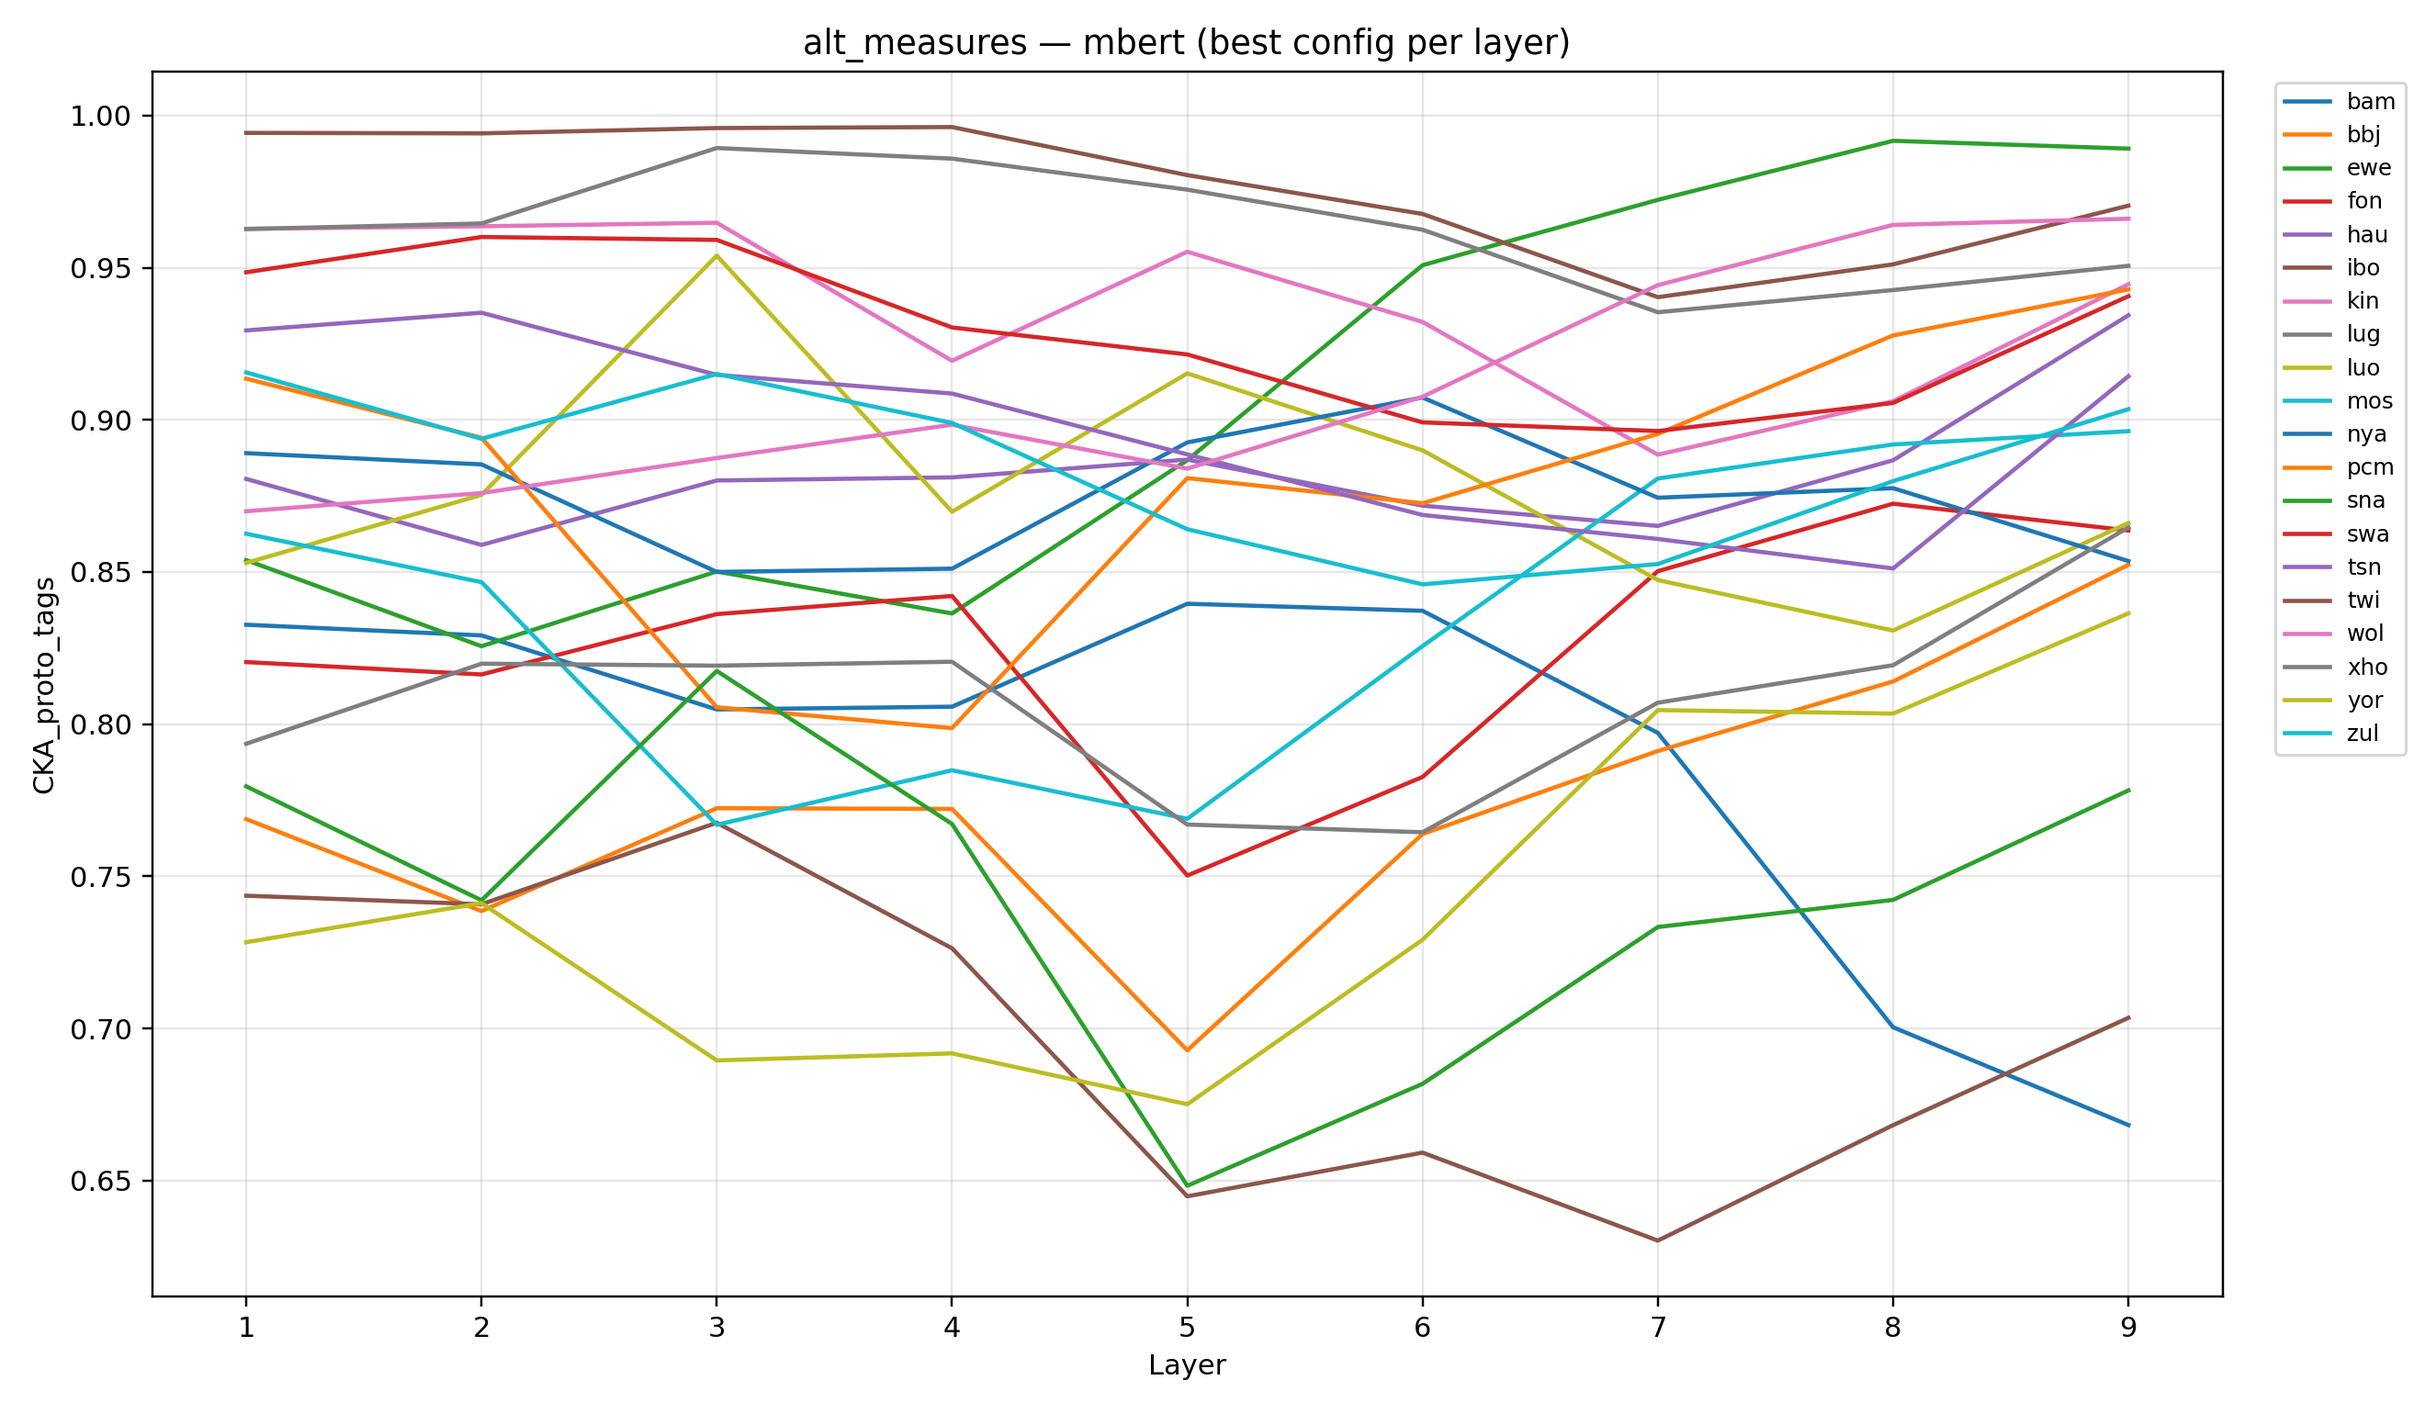
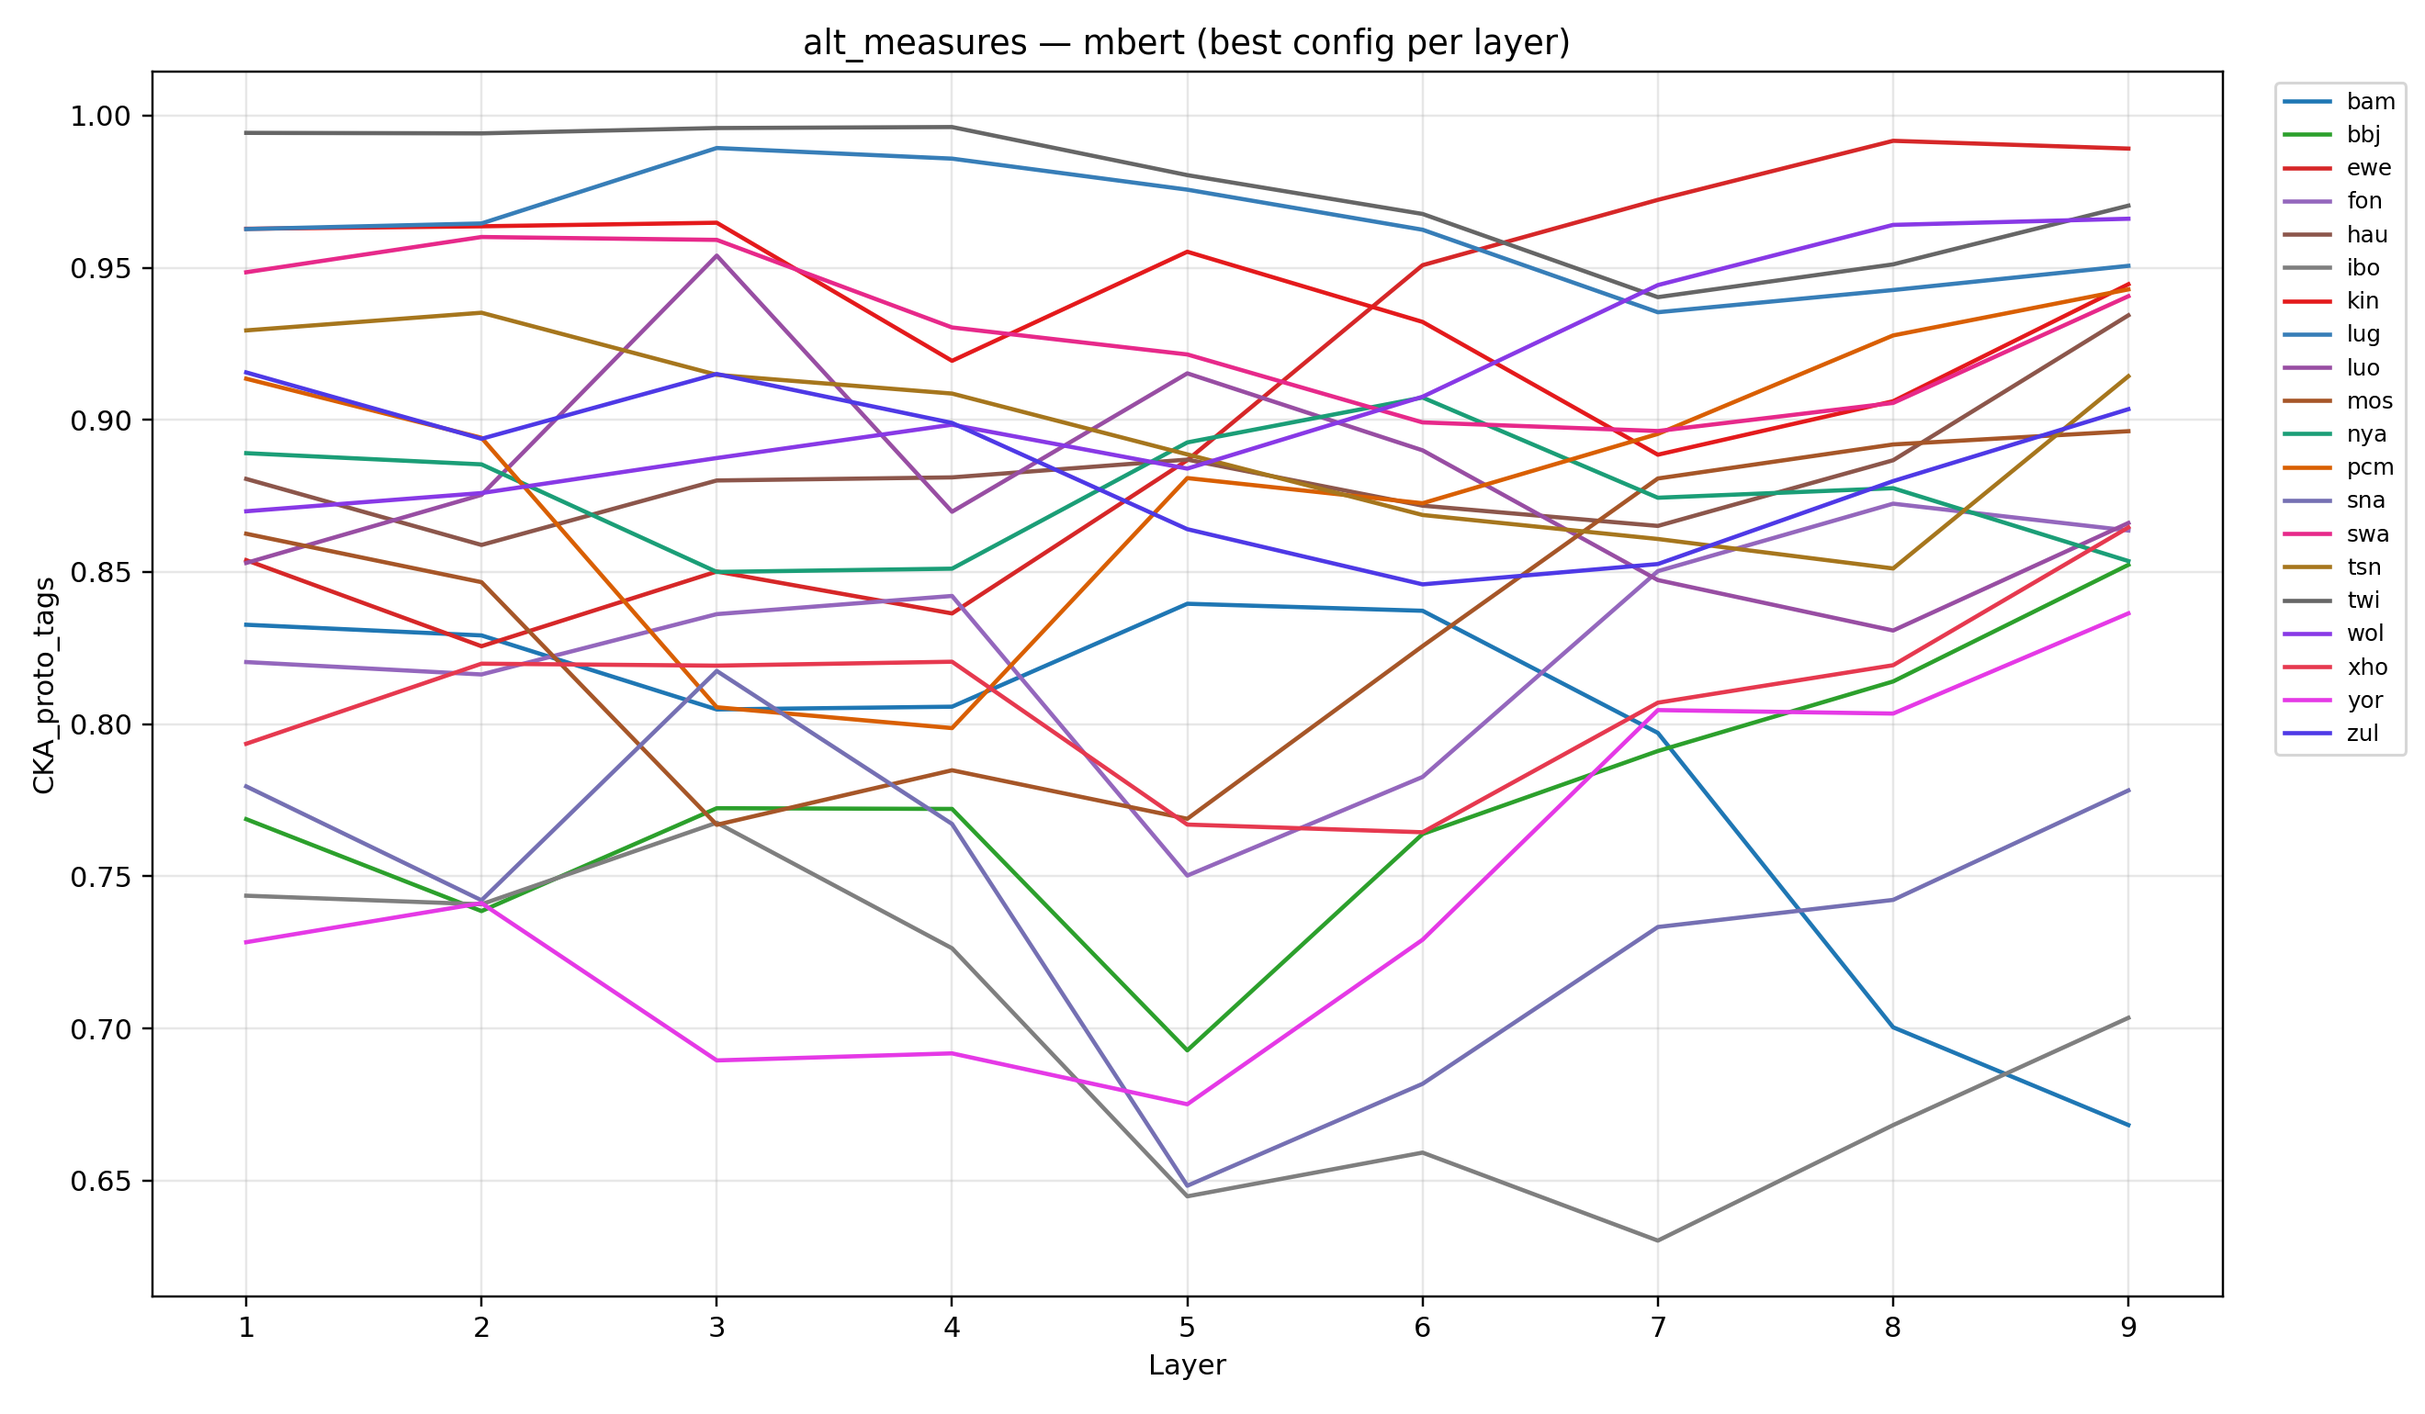
new colored lines

diff --git a/rq2_train_scripts/Embeddings/CLEAN/combined_select_best_and_plot.py b/rq2_train_scripts/Embeddings/CLEAN/combined_select_best_and_plot.py
@@ -21,6 +21,8 @@ from typing import Dict, List, Tuple, Optional
 import numpy as np
 import pandas as pd
 import matplotlib.pyplot as plt
+from cycler import cycler
+import matplotlib.colors as mcolors
 
 
 # ------------------------------
@@ -59,6 +61,75 @@ def find_layer_from_filename(fn: str) -> Optional[int]:
 
 def ensure_dir(p: str):
     os.makedirs(p, exist_ok=True)
+
+# ------------------------------
+# Color utilities (new)
+# ------------------------------
+
+def _hexify(rgb):
+    # rgb in 0..1 to hex
+    return mcolors.to_hex(rgb, keep_alpha=False)
+
+def _rel_luminance(rgb):
+    # rgb in 0..1, WCAG relative luminance
+    def f(c):
+        return c/12.92 if c <= 0.04045 else ((c+0.055)/1.055)**2.4
+    r, g, b = rgb
+    R, G, B = f(r), f(g), f(b)
+    return 0.2126*R + 0.7152*G + 0.0722*B
+
+def _contrast_ratio(rgb, bg_rgb=(1.0, 1.0, 1.0)):
+    L1 = _rel_luminance(rgb)
+    L2 = _rel_luminance(bg_rgb)
+    L_light, L_dark = (L1, L2) if L1 > L2 else (L2, L1)
+    return (L_light + 0.05) / (L_dark + 0.05)
+
+def pick_colors(n: int, bg_rgb=(1.0, 1.0, 1.0), min_contrast: float = 3.0) -> List[str]:
+    """
+    Return n visually distinct, high-contrast colors (hex), with no repeats.
+    - bg_rgb: background color (default white)
+    - min_contrast: WCAG-ish contrast threshold (>= 3 is a solid baseline for lines on white)
+    """
+    # 1) Start with curated, high-contrast palettes good on white.
+    #    (tab10/tab20/Tableau + ColorBrewer 'Set1'/'Dark2')
+    curated = []
+    for name in ("tab10", "tab20", "Set1", "Dark2"):
+        cmap = plt.get_cmap(name)
+        if hasattr(cmap, "colors"):
+            curated.extend(list(cmap.colors))
+        else:
+            curated.extend([cmap(i/9.0) for i in range(10)])
+
+    # Deduplicate while preserving order
+    seen = set()
+    curated = [tuple(c[:3]) for c in curated]  # drop alpha if present
+    unique_curated = []
+    for c in curated:
+        if c not in seen:
+            seen.add(c)
+            unique_curated.append(c)
+
+    # Filter by contrast against background
+    good = [c for c in unique_curated if _contrast_ratio(c, bg_rgb) >= min_contrast]
+
+    # 2) If we still need more, synthesize HSV colors (evenly spaced hues)
+    #    tuned for white background (high value, decent saturation),
+    #    then filter by contrast as well.
+    i = 0
+    while len(good) < n and i < 1000:  # hard cap to avoid infinite loops
+        k = len(good) + i + 1
+        hue = ((k * 0.61803398875) % 1.0)  # golden ratio hop for nicer spacing
+        sat = 0.75
+        val = 0.9
+        rgb = mcolors.hsv_to_rgb((hue, sat, val))
+        if _contrast_ratio(rgb, bg_rgb) >= min_contrast and tuple(rgb) not in good:
+            good.append(tuple(rgb))
+        i += 1
+
+    # 3) Trim to n
+    good = good[:n]
+    return [_hexify(c) for c in good]
+
 
 # ------------------------------
 # Metric extraction per technique
@@ -238,26 +309,40 @@ def scan_best_by_layer_for_tech(model_root: str, model: str, technique: str, opt
 
 
 # ------------------------------
-# Plotting
+# Plotting (updated to enforce unique, high-contrast colors)
 # ------------------------------
 
 def plot_lines(values_df: pd.DataFrame, title: str, ylabel: str, out_png: str, invert_for_lower_better: bool):
     ensure_dir(os.path.dirname(out_png) or ".")
     plt.figure(figsize=(12, 7))
+
     X = values_df.columns.astype(int).tolist()
     Y = values_df.copy()
     if invert_for_lower_better:
         Y = -Y
         ylabel = f"{ylabel} (higher=closer; plotted as negative)"
-    for lang in Y.index:
+
+    langs: List[str] = list(Y.index)
+
+    # Build a unique, high-contrast palette the same length as the number of lines
+    palette = pick_colors(len(langs), bg_rgb=(1.0, 1.0, 1.0), min_contrast=3.0)
+
+    # Lock the cycle so each language gets exactly one unique color
+    ax = plt.gca()
+    ax.set_prop_cycle(cycler(color=palette))
+
+    for lang in langs:
         plt.plot(X, Y.loc[lang].values, label=lang)
+
     plt.xlabel("Layer"); plt.ylabel(ylabel); plt.title(title)
     plt.grid(True, alpha=0.3)
-    if len(Y.index) <= 12:
+
+    if len(langs) <= 12:
         plt.legend(loc="best", fontsize=9)
     else:
         plt.legend(bbox_to_anchor=(1.02, 1), loc="upper left", fontsize=8, ncol=1)
         plt.tight_layout(rect=[0, 0, 0.78, 1])
+
     plt.tight_layout()
     plt.savefig(out_png, dpi=220); plt.close()
 

diff --git a/rq2_train_scripts/Embeddings/CLEAN/mptc_select_best_and_plot.py b/rq2_train_scripts/Embeddings/CLEAN/mptc_select_best_and_plot.py
@@ -21,6 +21,8 @@ from typing import Dict, List, Tuple, Optional
 import numpy as np
 import pandas as pd
 import matplotlib.pyplot as plt
+from cycler import cycler
+import matplotlib.colors as mcolors
 
 
 # ------------------------------
@@ -59,6 +61,75 @@ def find_layer_from_filename(fn: str) -> Optional[int]:
 
 def ensure_dir(p: str):
     os.makedirs(p, exist_ok=True)
+
+# ------------------------------
+# Color utilities (new)
+# ------------------------------
+
+def _hexify(rgb):
+    # rgb in 0..1 to hex
+    return mcolors.to_hex(rgb, keep_alpha=False)
+
+def _rel_luminance(rgb):
+    # rgb in 0..1, WCAG relative luminance
+    def f(c):
+        return c/12.92 if c <= 0.04045 else ((c+0.055)/1.055)**2.4
+    r, g, b = rgb
+    R, G, B = f(r), f(g), f(b)
+    return 0.2126*R + 0.7152*G + 0.0722*B
+
+def _contrast_ratio(rgb, bg_rgb=(1.0, 1.0, 1.0)):
+    L1 = _rel_luminance(rgb)
+    L2 = _rel_luminance(bg_rgb)
+    L_light, L_dark = (L1, L2) if L1 > L2 else (L2, L1)
+    return (L_light + 0.05) / (L_dark + 0.05)
+
+def pick_colors(n: int, bg_rgb=(1.0, 1.0, 1.0), min_contrast: float = 3.0) -> List[str]:
+    """
+    Return n visually distinct, high-contrast colors (hex), with no repeats.
+    - bg_rgb: background color (default white)
+    - min_contrast: WCAG-ish contrast threshold (>= 3 is a solid baseline for lines on white)
+    """
+    # 1) Start with curated, high-contrast palettes good on white.
+    #    (tab10/tab20/Tableau + ColorBrewer 'Set1'/'Dark2')
+    curated = []
+    for name in ("tab10", "tab20", "Set1", "Dark2"):
+        cmap = plt.get_cmap(name)
+        if hasattr(cmap, "colors"):
+            curated.extend(list(cmap.colors))
+        else:
+            curated.extend([cmap(i/9.0) for i in range(10)])
+
+    # Deduplicate while preserving order
+    seen = set()
+    curated = [tuple(c[:3]) for c in curated]  # drop alpha if present
+    unique_curated = []
+    for c in curated:
+        if c not in seen:
+            seen.add(c)
+            unique_curated.append(c)
+
+    # Filter by contrast against background
+    good = [c for c in unique_curated if _contrast_ratio(c, bg_rgb) >= min_contrast]
+
+    # 2) If we still need more, synthesize HSV colors (evenly spaced hues)
+    #    tuned for white background (high value, decent saturation),
+    #    then filter by contrast as well.
+    i = 0
+    while len(good) < n and i < 1000:  # hard cap to avoid infinite loops
+        k = len(good) + i + 1
+        hue = ((k * 0.61803398875) % 1.0)  # golden ratio hop for nicer spacing
+        sat = 0.75
+        val = 0.9
+        rgb = mcolors.hsv_to_rgb((hue, sat, val))
+        if _contrast_ratio(rgb, bg_rgb) >= min_contrast and tuple(rgb) not in good:
+            good.append(tuple(rgb))
+        i += 1
+
+    # 3) Trim to n
+    good = good[:n]
+    return [_hexify(c) for c in good]
+
 
 # ------------------------------
 # Metric extraction per technique
@@ -238,26 +309,40 @@ def scan_best_by_layer_for_tech(model_root: str, model: str, technique: str, opt
 
 
 # ------------------------------
-# Plotting
+# Plotting (updated to enforce unique, high-contrast colors)
 # ------------------------------
 
 def plot_lines(values_df: pd.DataFrame, title: str, ylabel: str, out_png: str, invert_for_lower_better: bool):
     ensure_dir(os.path.dirname(out_png) or ".")
     plt.figure(figsize=(12, 7))
+
     X = values_df.columns.astype(int).tolist()
     Y = values_df.copy()
     if invert_for_lower_better:
         Y = -Y
         ylabel = f"{ylabel} (higher=closer; plotted as negative)"
-    for lang in Y.index:
+
+    langs: List[str] = list(Y.index)
+
+    # Build a unique, high-contrast palette the same length as the number of lines
+    palette = pick_colors(len(langs), bg_rgb=(1.0, 1.0, 1.0), min_contrast=3.0)
+
+    # Lock the cycle so each language gets exactly one unique color
+    ax = plt.gca()
+    ax.set_prop_cycle(cycler(color=palette))
+
+    for lang in langs:
         plt.plot(X, Y.loc[lang].values, label=lang)
+
     plt.xlabel("Layer"); plt.ylabel(ylabel); plt.title(title)
     plt.grid(True, alpha=0.3)
-    if len(Y.index) <= 12:
+
+    if len(langs) <= 12:
         plt.legend(loc="best", fontsize=9)
     else:
         plt.legend(bbox_to_anchor=(1.02, 1), loc="upper left", fontsize=8, ncol=1)
         plt.tight_layout(rect=[0, 0, 0.78, 1])
+
     plt.tight_layout()
     plt.savefig(out_png, dpi=220); plt.close()
 

diff --git a/rq2_train_scripts/Embeddings/CLEAN/salt_select_best_and_plot.py b/rq2_train_scripts/Embeddings/CLEAN/salt_select_best_and_plot.py
@@ -21,6 +21,8 @@ from typing import Dict, List, Tuple, Optional
 import numpy as np
 import pandas as pd
 import matplotlib.pyplot as plt
+from cycler import cycler
+import matplotlib.colors as mcolors
 
 
 # ------------------------------
@@ -59,6 +61,75 @@ def find_layer_from_filename(fn: str) -> Optional[int]:
 
 def ensure_dir(p: str):
     os.makedirs(p, exist_ok=True)
+
+# ------------------------------
+# Color utilities (new)
+# ------------------------------
+
+def _hexify(rgb):
+    # rgb in 0..1 to hex
+    return mcolors.to_hex(rgb, keep_alpha=False)
+
+def _rel_luminance(rgb):
+    # rgb in 0..1, WCAG relative luminance
+    def f(c):
+        return c/12.92 if c <= 0.04045 else ((c+0.055)/1.055)**2.4
+    r, g, b = rgb
+    R, G, B = f(r), f(g), f(b)
+    return 0.2126*R + 0.7152*G + 0.0722*B
+
+def _contrast_ratio(rgb, bg_rgb=(1.0, 1.0, 1.0)):
+    L1 = _rel_luminance(rgb)
+    L2 = _rel_luminance(bg_rgb)
+    L_light, L_dark = (L1, L2) if L1 > L2 else (L2, L1)
+    return (L_light + 0.05) / (L_dark + 0.05)
+
+def pick_colors(n: int, bg_rgb=(1.0, 1.0, 1.0), min_contrast: float = 3.0) -> List[str]:
+    """
+    Return n visually distinct, high-contrast colors (hex), with no repeats.
+    - bg_rgb: background color (default white)
+    - min_contrast: WCAG-ish contrast threshold (>= 3 is a solid baseline for lines on white)
+    """
+    # 1) Start with curated, high-contrast palettes good on white.
+    #    (tab10/tab20/Tableau + ColorBrewer 'Set1'/'Dark2')
+    curated = []
+    for name in ("tab10", "tab20", "Set1", "Dark2"):
+        cmap = plt.get_cmap(name)
+        if hasattr(cmap, "colors"):
+            curated.extend(list(cmap.colors))
+        else:
+            curated.extend([cmap(i/9.0) for i in range(10)])
+
+    # Deduplicate while preserving order
+    seen = set()
+    curated = [tuple(c[:3]) for c in curated]  # drop alpha if present
+    unique_curated = []
+    for c in curated:
+        if c not in seen:
+            seen.add(c)
+            unique_curated.append(c)
+
+    # Filter by contrast against background
+    good = [c for c in unique_curated if _contrast_ratio(c, bg_rgb) >= min_contrast]
+
+    # 2) If we still need more, synthesize HSV colors (evenly spaced hues)
+    #    tuned for white background (high value, decent saturation),
+    #    then filter by contrast as well.
+    i = 0
+    while len(good) < n and i < 1000:  # hard cap to avoid infinite loops
+        k = len(good) + i + 1
+        hue = ((k * 0.61803398875) % 1.0)  # golden ratio hop for nicer spacing
+        sat = 0.75
+        val = 0.9
+        rgb = mcolors.hsv_to_rgb((hue, sat, val))
+        if _contrast_ratio(rgb, bg_rgb) >= min_contrast and tuple(rgb) not in good:
+            good.append(tuple(rgb))
+        i += 1
+
+    # 3) Trim to n
+    good = good[:n]
+    return [_hexify(c) for c in good]
+
 
 # ------------------------------
 # Metric extraction per technique
@@ -238,26 +309,40 @@ def scan_best_by_layer_for_tech(model_root: str, model: str, technique: str, opt
 
 
 # ------------------------------
-# Plotting
+# Plotting (updated to enforce unique, high-contrast colors)
 # ------------------------------
 
 def plot_lines(values_df: pd.DataFrame, title: str, ylabel: str, out_png: str, invert_for_lower_better: bool):
     ensure_dir(os.path.dirname(out_png) or ".")
     plt.figure(figsize=(12, 7))
+
     X = values_df.columns.astype(int).tolist()
     Y = values_df.copy()
     if invert_for_lower_better:
         Y = -Y
         ylabel = f"{ylabel} (higher=closer; plotted as negative)"
-    for lang in Y.index:
+
+    langs: List[str] = list(Y.index)
+
+    # Build a unique, high-contrast palette the same length as the number of lines
+    palette = pick_colors(len(langs), bg_rgb=(1.0, 1.0, 1.0), min_contrast=3.0)
+
+    # Lock the cycle so each language gets exactly one unique color
+    ax = plt.gca()
+    ax.set_prop_cycle(cycler(color=palette))
+
+    for lang in langs:
         plt.plot(X, Y.loc[lang].values, label=lang)
+
     plt.xlabel("Layer"); plt.ylabel(ylabel); plt.title(title)
     plt.grid(True, alpha=0.3)
-    if len(Y.index) <= 12:
+
+    if len(langs) <= 12:
         plt.legend(loc="best", fontsize=9)
     else:
         plt.legend(bbox_to_anchor=(1.02, 1), loc="upper left", fontsize=8, ncol=1)
         plt.tight_layout(rect=[0, 0, 0.78, 1])
+
     plt.tight_layout()
     plt.savefig(out_png, dpi=220); plt.close()
 
